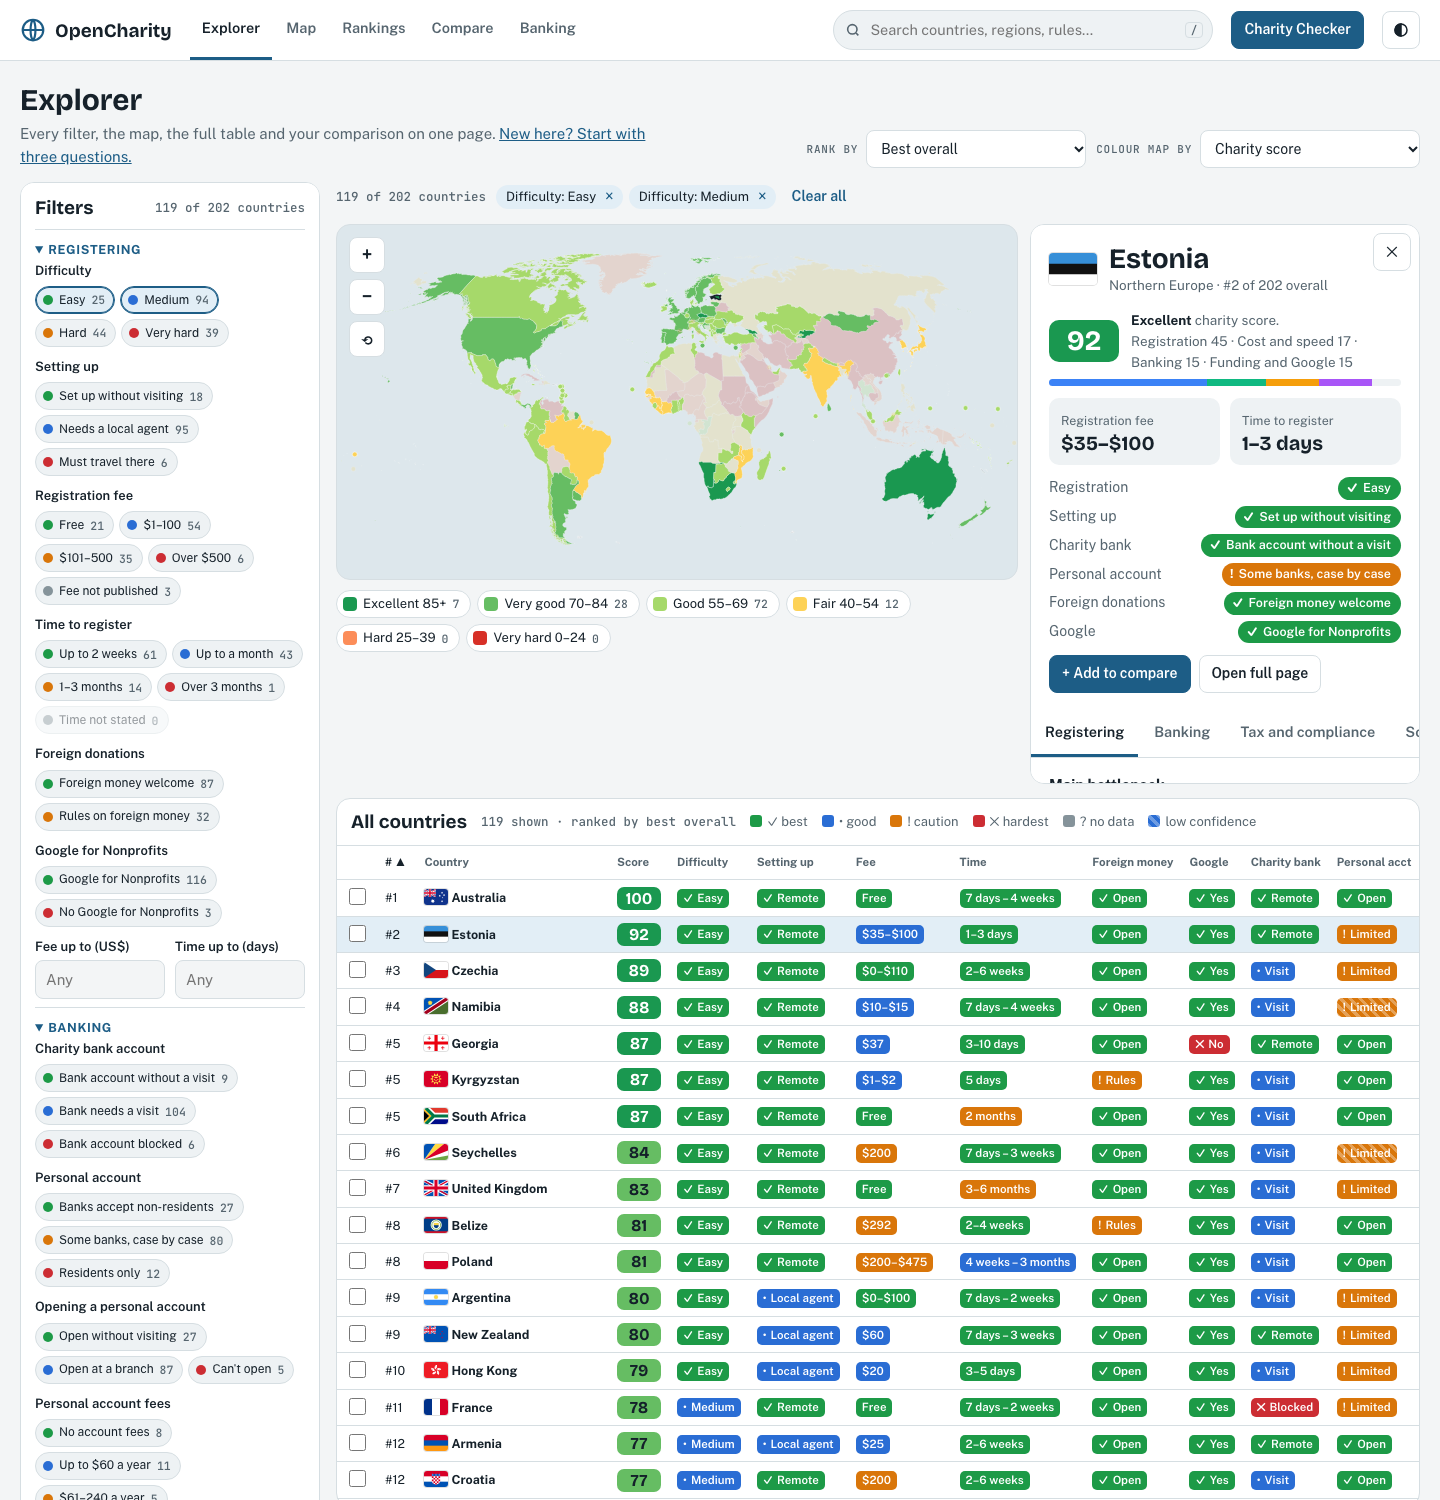
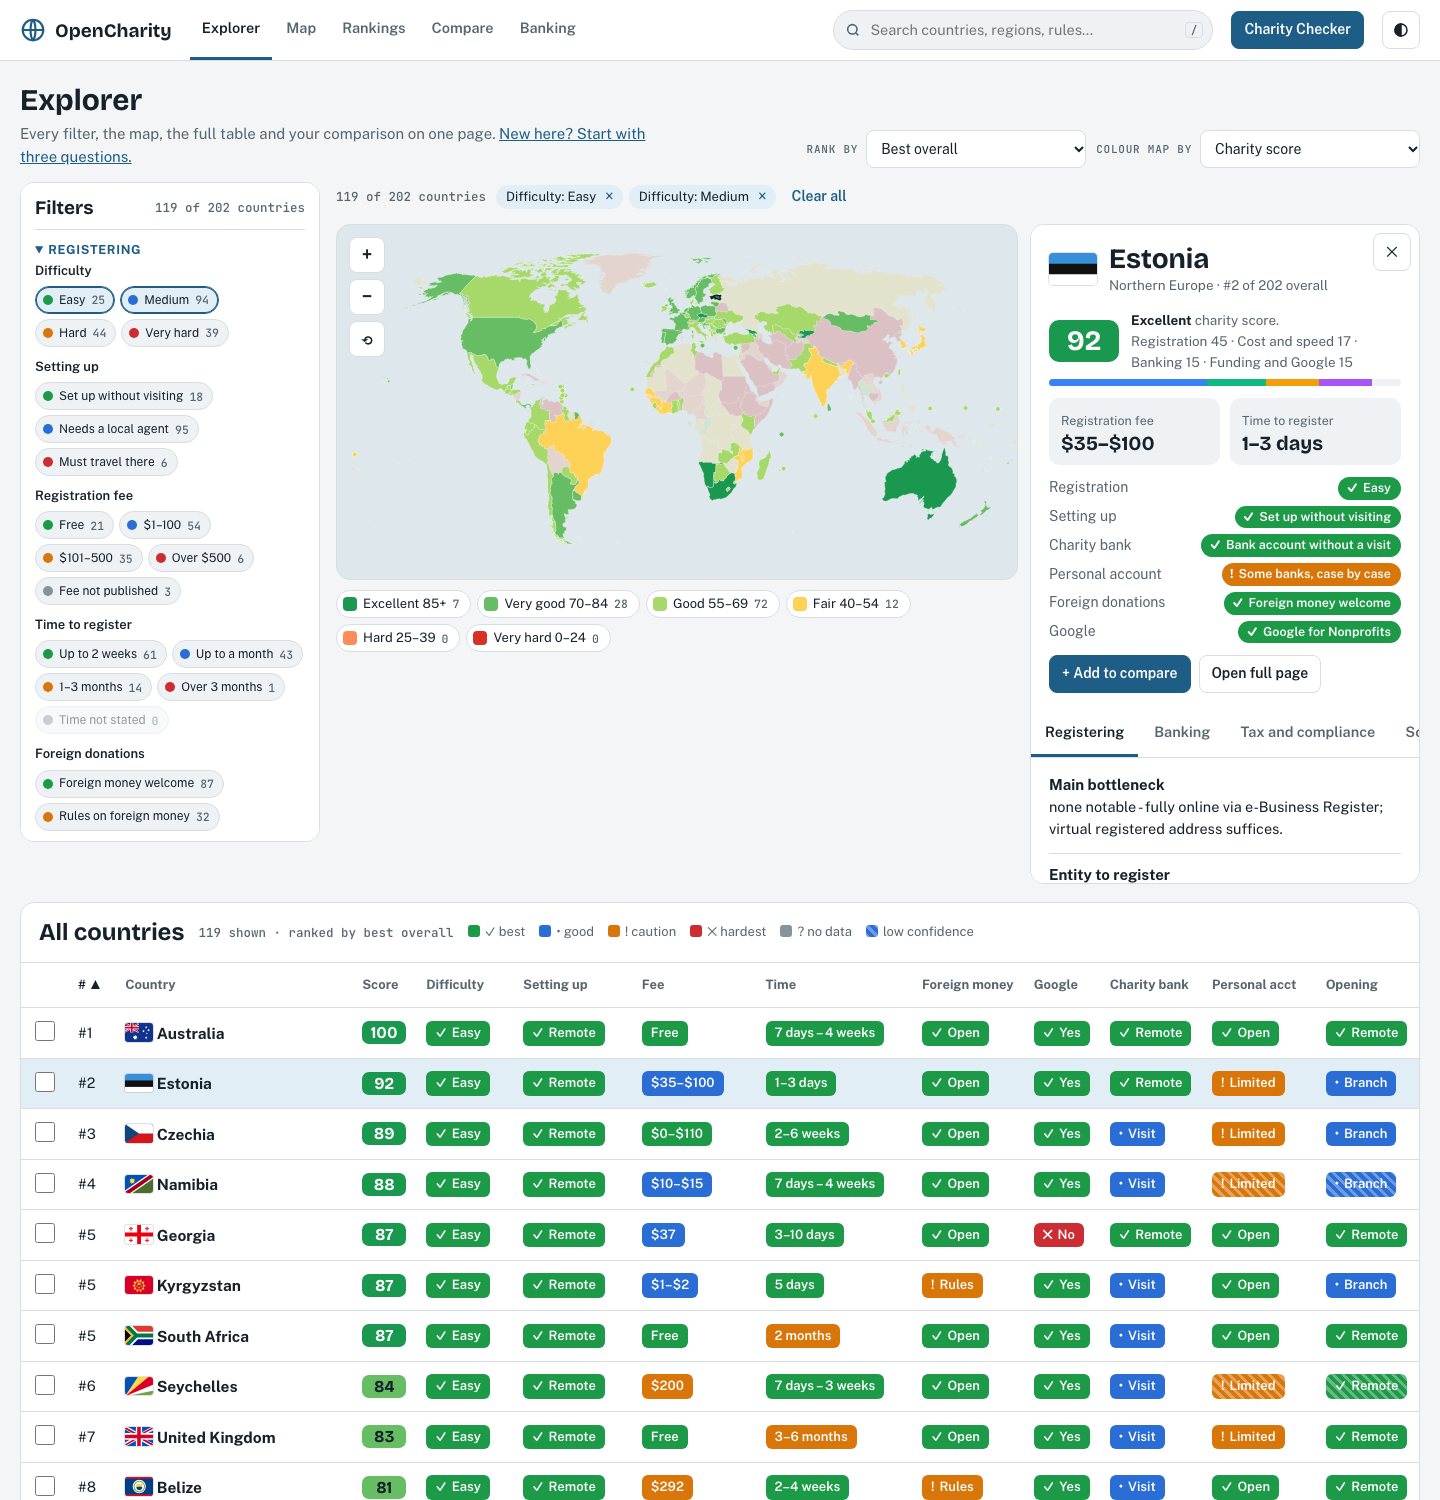
Explorer: full-width, larger country table right after the map
The table and compare grid now span the whole page width under the
map, with bigger text, chips and rows, and fill the screen height
with a sticky header. The filters column scrolls on its own at the
map's height so the table starts straight after the map.

diff --git a/docs/index.html b/docs/index.html
@@ -340,7 +340,7 @@ footer.site p { margin: 0; max-width: 80ch; }
 }
 /* ---------- explorer (everything on one page) ---------- */
 .xgrid { display: grid; grid-template-columns: 300px minmax(0, 1fr); gap: 16px; align-items: start; }
-.xside { position: sticky; top: 72px; max-height: calc(100vh - 88px); overflow-y: auto; padding: 4px 14px 14px; }
+.xside { max-height: min(calc(100vh - 88px), 660px); overflow-y: auto; padding: 4px 14px 14px; }
 .xside > summary { list-style: none; cursor: pointer; display: flex; align-items: center; gap: 8px; padding: 10px 0; position: sticky; top: 0; background: var(--surface); z-index: 2; border-bottom: 1px solid var(--line); }
 .xside > summary::-webkit-details-marker { display: none; }
 .xside > summary h2 { font-size: 19px; }
@@ -350,7 +350,7 @@ footer.site p { margin: 0; max-width: 80ch; }
 .xside .fgroup { padding: 8px 0; }
 .xmain { min-width: 0; }
 .xtop { display: grid; grid-template-columns: minmax(0, 1fr) 390px; gap: 12px; align-items: start; }
-.xdet { max-height: 560px; overflow-y: auto; position: relative; }
+.xdet { max-height: 660px; overflow-y: auto; position: relative; }
 .xdet .close { position: sticky; top: 8px; float: right; margin: 8px 8px 0 0; z-index: 2; }
 .xhint { padding: 16px 18px; }
 .xhint h2 { font-size: 18px; margin-bottom: 6px; }
@@ -361,20 +361,25 @@ footer.site p { margin: 0; max-width: 80ch; }
 .xblock { margin-top: 14px; }
 .xblock > .xbh { display: flex; flex-wrap: wrap; align-items: center; gap: 8px 14px; padding: 12px 14px; border-bottom: 1px solid var(--line); }
 .xblock > .xbh h2 { font-size: 19px; }
-.xscroll { overflow: auto; max-height: 660px; }
-table.xt { border-collapse: separate; border-spacing: 0; font-size: 12.5px; min-width: 100%; }
+.xwide { margin-top: 18px; }
+.xwide > .xbh { padding: 16px 18px; }
+.xwide > .xbh h2 { font-size: 24px; }
+.xscroll { overflow: auto; max-height: calc(100vh - 80px); min-height: 480px; }
+table.xt { border-collapse: separate; border-spacing: 0; font-size: 14.5px; min-width: 100%; }
 table.xt th { position: sticky; top: 0; background: var(--surface); z-index: 2; border-bottom: 1px solid var(--line); text-align: left; padding: 0; white-space: nowrap; vertical-align: bottom; }
-table.xt th button { background: none; border: 0; padding: 8px; font-weight: 700; font-size: 11.5px; cursor: pointer; color: var(--muted); text-align: left; }
+table.xt th button { background: none; border: 0; padding: 12px 10px; font-weight: 700; font-size: 13px; cursor: pointer; color: var(--muted); text-align: left; }
 table.xt th[aria-sort="ascending"] button, table.xt th[aria-sort="descending"] button { color: var(--ink); }
 table.xt th[aria-sort="ascending"] button::after { content: " ▲"; } table.xt th[aria-sort="descending"] button::after { content: " ▼"; }
-table.xt td { padding: 5px 8px; border-bottom: 1px solid var(--line); white-space: nowrap; }
+table.xt td { padding: 10px 10px; border-bottom: 1px solid var(--line); white-space: nowrap; }
+table.xt td.stk b { font-size: 15.5px; }
+table.xt .flag { width: 28px; }
 table.xt .stk { position: sticky; left: 0; background: var(--surface); z-index: 1; }
 table.xt th.stk { z-index: 3; }
 table.xt tr[data-x] { cursor: pointer; }
 table.xt tr[data-x]:hover td, table.xt tr[data-x]:focus-visible td { background: var(--surface-2); }
 table.xt tr.on td { background: var(--accent-soft); }
-table.xt input[type="checkbox"] { width: 17px; height: 17px; accent-color: var(--accent); cursor: pointer; }
-.mc { display: inline-flex; align-items: center; gap: 4px; border-radius: 5px; padding: 0 6px; color: #fff; font-weight: 600; font-size: 11.5px; line-height: 1.65; }
+table.xt input[type="checkbox"] { width: 20px; height: 20px; accent-color: var(--accent); cursor: pointer; }
+.mc { display: inline-flex; align-items: center; gap: 5px; border-radius: 6px; padding: 2px 9px; color: #fff; font-weight: 600; font-size: 13px; line-height: 1.6; }
 .c-b5 { background: var(--b5); } .c-b4 { background: var(--b4); color: #14202a; } .c-b3 { background: var(--b3); color: #14202a; } .c-b2 { background: var(--b2); color: #14202a; } .c-b1 { background: var(--b1); color: #14202a; } .c-b0 { background: var(--b0); }
 td.cell.med { background: var(--surface-2); color: var(--ink); font-weight: 500; }
 th.medh { background: var(--surface-2); }
@@ -996,10 +1001,10 @@ function renderExplore() {
         <div class="xmain">
           <div id="xTags"></div>
           <div class="xtop"><div><div class="mapcard" id="xMap"></div><div id="xLegend"></div></div><aside class="card xdet" id="xDet" tabindex="-1" aria-label="Country details"></aside></div>
-          <div class="card xblock" id="xTableBox"></div>
-          <div class="card xblock" id="xCmp"></div>
         </div>
-      </div>`;
+      </div>
+      <div class="card xblock xwide" id="xTableBox"></div>
+      <div class="card xblock xwide" id="xCmp"></div>`;
     if (narrow()) $("xSide").open = false;
     xMap = makeMap($("xMap"), c => { S.xsel = c; renderExplore(); if (matchMedia("(max-width: 1250px)").matches) $("xDet").scrollIntoView({ behavior: "smooth", block: "start" }); });
   }
@@ -1042,7 +1047,7 @@ function renderExplore() {
   const { html: tbl, shown } = cmpTable(cs, pool, true);
   $("xCmp").innerHTML = `<div class="xbh"><h2>Compare</h2><span class="count">${cs.length} of 5 picked · tick countries in the table</span>
       ${cs.length ? `<label class="switch"><input type="checkbox" id="diffOnly"${S.diff ? " checked" : ""}> Differences only</label><button type="button" class="btn link" id="cmpClear">Clear</button>` : ""}</div>
-    ${cs.length ? `<div class="cmpwrap" style="padding:10px">${tbl}</div>${S.diff && cs.length > 1 && !shown ? `<p class="empty">These countries match on every rated row.</p>` : ""}`
+    ${cs.length ? `<div class="cmpwrap" style="padding:14px">${tbl}</div>${S.diff && cs.length > 1 && !shown ? `<p class="empty">These countries match on every rated row.</p>` : ""}`
       : `<p class="empty">Tick up to 5 countries in the table (or press <b>c</b> on a focused row) to compare them here, beside the median of everything your filters match.</p>`}
     <datalist id="allC">${DATA.filter(d => !S.cmp.includes(d.country)).sort((a, b) => a.country.localeCompare(b.country)).map(d => `<option value="${esc(d.country)}">`).join("")}</datalist>`;
   announce(`${pool.length} countries match`);

diff --git a/webapp/atlas.html b/webapp/atlas.html
@@ -329,7 +329,7 @@ footer.site p { margin: 0; max-width: 80ch; }
 }
 /* ---------- explorer (everything on one page) ---------- */
 .xgrid { display: grid; grid-template-columns: 300px minmax(0, 1fr); gap: 16px; align-items: start; }
-.xside { position: sticky; top: 72px; max-height: calc(100vh - 88px); overflow-y: auto; padding: 4px 14px 14px; }
+.xside { max-height: min(calc(100vh - 88px), 660px); overflow-y: auto; padding: 4px 14px 14px; }
 .xside > summary { list-style: none; cursor: pointer; display: flex; align-items: center; gap: 8px; padding: 10px 0; position: sticky; top: 0; background: var(--surface); z-index: 2; border-bottom: 1px solid var(--line); }
 .xside > summary::-webkit-details-marker { display: none; }
 .xside > summary h2 { font-size: 19px; }
@@ -339,7 +339,7 @@ footer.site p { margin: 0; max-width: 80ch; }
 .xside .fgroup { padding: 8px 0; }
 .xmain { min-width: 0; }
 .xtop { display: grid; grid-template-columns: minmax(0, 1fr) 390px; gap: 12px; align-items: start; }
-.xdet { max-height: 560px; overflow-y: auto; position: relative; }
+.xdet { max-height: 660px; overflow-y: auto; position: relative; }
 .xdet .close { position: sticky; top: 8px; float: right; margin: 8px 8px 0 0; z-index: 2; }
 .xhint { padding: 16px 18px; }
 .xhint h2 { font-size: 18px; margin-bottom: 6px; }
@@ -350,20 +350,25 @@ footer.site p { margin: 0; max-width: 80ch; }
 .xblock { margin-top: 14px; }
 .xblock > .xbh { display: flex; flex-wrap: wrap; align-items: center; gap: 8px 14px; padding: 12px 14px; border-bottom: 1px solid var(--line); }
 .xblock > .xbh h2 { font-size: 19px; }
-.xscroll { overflow: auto; max-height: 660px; }
-table.xt { border-collapse: separate; border-spacing: 0; font-size: 12.5px; min-width: 100%; }
+.xwide { margin-top: 18px; }
+.xwide > .xbh { padding: 16px 18px; }
+.xwide > .xbh h2 { font-size: 24px; }
+.xscroll { overflow: auto; max-height: calc(100vh - 80px); min-height: 480px; }
+table.xt { border-collapse: separate; border-spacing: 0; font-size: 14.5px; min-width: 100%; }
 table.xt th { position: sticky; top: 0; background: var(--surface); z-index: 2; border-bottom: 1px solid var(--line); text-align: left; padding: 0; white-space: nowrap; vertical-align: bottom; }
-table.xt th button { background: none; border: 0; padding: 8px; font-weight: 700; font-size: 11.5px; cursor: pointer; color: var(--muted); text-align: left; }
+table.xt th button { background: none; border: 0; padding: 12px 10px; font-weight: 700; font-size: 13px; cursor: pointer; color: var(--muted); text-align: left; }
 table.xt th[aria-sort="ascending"] button, table.xt th[aria-sort="descending"] button { color: var(--ink); }
 table.xt th[aria-sort="ascending"] button::after { content: " ▲"; } table.xt th[aria-sort="descending"] button::after { content: " ▼"; }
-table.xt td { padding: 5px 8px; border-bottom: 1px solid var(--line); white-space: nowrap; }
+table.xt td { padding: 10px 10px; border-bottom: 1px solid var(--line); white-space: nowrap; }
+table.xt td.stk b { font-size: 15.5px; }
+table.xt .flag { width: 28px; }
 table.xt .stk { position: sticky; left: 0; background: var(--surface); z-index: 1; }
 table.xt th.stk { z-index: 3; }
 table.xt tr[data-x] { cursor: pointer; }
 table.xt tr[data-x]:hover td, table.xt tr[data-x]:focus-visible td { background: var(--surface-2); }
 table.xt tr.on td { background: var(--accent-soft); }
-table.xt input[type="checkbox"] { width: 17px; height: 17px; accent-color: var(--accent); cursor: pointer; }
-.mc { display: inline-flex; align-items: center; gap: 4px; border-radius: 5px; padding: 0 6px; color: #fff; font-weight: 600; font-size: 11.5px; line-height: 1.65; }
+table.xt input[type="checkbox"] { width: 20px; height: 20px; accent-color: var(--accent); cursor: pointer; }
+.mc { display: inline-flex; align-items: center; gap: 5px; border-radius: 6px; padding: 2px 9px; color: #fff; font-weight: 600; font-size: 13px; line-height: 1.6; }
 .c-b5 { background: var(--b5); } .c-b4 { background: var(--b4); color: #14202a; } .c-b3 { background: var(--b3); color: #14202a; } .c-b2 { background: var(--b2); color: #14202a; } .c-b1 { background: var(--b1); color: #14202a; } .c-b0 { background: var(--b0); }
 td.cell.med { background: var(--surface-2); color: var(--ink); font-weight: 500; }
 th.medh { background: var(--surface-2); }
@@ -983,10 +988,10 @@ function renderExplore() {
         <div class="xmain">
           <div id="xTags"></div>
           <div class="xtop"><div><div class="mapcard" id="xMap"></div><div id="xLegend"></div></div><aside class="card xdet" id="xDet" tabindex="-1" aria-label="Country details"></aside></div>
-          <div class="card xblock" id="xTableBox"></div>
-          <div class="card xblock" id="xCmp"></div>
         </div>
-      </div>`;
+      </div>
+      <div class="card xblock xwide" id="xTableBox"></div>
+      <div class="card xblock xwide" id="xCmp"></div>`;
     if (narrow()) $("xSide").open = false;
     xMap = makeMap($("xMap"), c => { S.xsel = c; renderExplore(); if (matchMedia("(max-width: 1250px)").matches) $("xDet").scrollIntoView({ behavior: "smooth", block: "start" }); });
   }
@@ -1029,7 +1034,7 @@ function renderExplore() {
   const { html: tbl, shown } = cmpTable(cs, pool, true);
   $("xCmp").innerHTML = `<div class="xbh"><h2>Compare</h2><span class="count">${cs.length} of 5 picked · tick countries in the table</span>
       ${cs.length ? `<label class="switch"><input type="checkbox" id="diffOnly"${S.diff ? " checked" : ""}> Differences only</label><button type="button" class="btn link" id="cmpClear">Clear</button>` : ""}</div>
-    ${cs.length ? `<div class="cmpwrap" style="padding:10px">${tbl}</div>${S.diff && cs.length > 1 && !shown ? `<p class="empty">These countries match on every rated row.</p>` : ""}`
+    ${cs.length ? `<div class="cmpwrap" style="padding:14px">${tbl}</div>${S.diff && cs.length > 1 && !shown ? `<p class="empty">These countries match on every rated row.</p>` : ""}`
       : `<p class="empty">Tick up to 5 countries in the table (or press <b>c</b> on a focused row) to compare them here, beside the median of everything your filters match.</p>`}
     <datalist id="allC">${DATA.filter(d => !S.cmp.includes(d.country)).sort((a, b) => a.country.localeCompare(b.country)).map(d => `<option value="${esc(d.country)}">`).join("")}</datalist>`;
   announce(`${pool.length} countries match`);

diff --git a/build_site.py b/build_site.py
@@ -408,7 +408,7 @@ footer.site p { margin: 0; max-width: 80ch; }
 }
 /* ---------- explorer (everything on one page) ---------- */
 .xgrid { display: grid; grid-template-columns: 300px minmax(0, 1fr); gap: 16px; align-items: start; }
-.xside { position: sticky; top: 72px; max-height: calc(100vh - 88px); overflow-y: auto; padding: 4px 14px 14px; }
+.xside { max-height: min(calc(100vh - 88px), 660px); overflow-y: auto; padding: 4px 14px 14px; }
 .xside > summary { list-style: none; cursor: pointer; display: flex; align-items: center; gap: 8px; padding: 10px 0; position: sticky; top: 0; background: var(--surface); z-index: 2; border-bottom: 1px solid var(--line); }
 .xside > summary::-webkit-details-marker { display: none; }
 .xside > summary h2 { font-size: 19px; }
@@ -418,7 +418,7 @@ footer.site p { margin: 0; max-width: 80ch; }
 .xside .fgroup { padding: 8px 0; }
 .xmain { min-width: 0; }
 .xtop { display: grid; grid-template-columns: minmax(0, 1fr) 390px; gap: 12px; align-items: start; }
-.xdet { max-height: 560px; overflow-y: auto; position: relative; }
+.xdet { max-height: 660px; overflow-y: auto; position: relative; }
 .xdet .close { position: sticky; top: 8px; float: right; margin: 8px 8px 0 0; z-index: 2; }
 .xhint { padding: 16px 18px; }
 .xhint h2 { font-size: 18px; margin-bottom: 6px; }
@@ -429,20 +429,25 @@ footer.site p { margin: 0; max-width: 80ch; }
 .xblock { margin-top: 14px; }
 .xblock > .xbh { display: flex; flex-wrap: wrap; align-items: center; gap: 8px 14px; padding: 12px 14px; border-bottom: 1px solid var(--line); }
 .xblock > .xbh h2 { font-size: 19px; }
-.xscroll { overflow: auto; max-height: 660px; }
-table.xt { border-collapse: separate; border-spacing: 0; font-size: 12.5px; min-width: 100%; }
+.xwide { margin-top: 18px; }
+.xwide > .xbh { padding: 16px 18px; }
+.xwide > .xbh h2 { font-size: 24px; }
+.xscroll { overflow: auto; max-height: calc(100vh - 80px); min-height: 480px; }
+table.xt { border-collapse: separate; border-spacing: 0; font-size: 14.5px; min-width: 100%; }
 table.xt th { position: sticky; top: 0; background: var(--surface); z-index: 2; border-bottom: 1px solid var(--line); text-align: left; padding: 0; white-space: nowrap; vertical-align: bottom; }
-table.xt th button { background: none; border: 0; padding: 8px; font-weight: 700; font-size: 11.5px; cursor: pointer; color: var(--muted); text-align: left; }
+table.xt th button { background: none; border: 0; padding: 12px 10px; font-weight: 700; font-size: 13px; cursor: pointer; color: var(--muted); text-align: left; }
 table.xt th[aria-sort="ascending"] button, table.xt th[aria-sort="descending"] button { color: var(--ink); }
 table.xt th[aria-sort="ascending"] button::after { content: " ▲"; } table.xt th[aria-sort="descending"] button::after { content: " ▼"; }
-table.xt td { padding: 5px 8px; border-bottom: 1px solid var(--line); white-space: nowrap; }
+table.xt td { padding: 10px 10px; border-bottom: 1px solid var(--line); white-space: nowrap; }
+table.xt td.stk b { font-size: 15.5px; }
+table.xt .flag { width: 28px; }
 table.xt .stk { position: sticky; left: 0; background: var(--surface); z-index: 1; }
 table.xt th.stk { z-index: 3; }
 table.xt tr[data-x] { cursor: pointer; }
 table.xt tr[data-x]:hover td, table.xt tr[data-x]:focus-visible td { background: var(--surface-2); }
 table.xt tr.on td { background: var(--accent-soft); }
-table.xt input[type="checkbox"] { width: 17px; height: 17px; accent-color: var(--accent); cursor: pointer; }
-.mc { display: inline-flex; align-items: center; gap: 4px; border-radius: 5px; padding: 0 6px; color: #fff; font-weight: 600; font-size: 11.5px; line-height: 1.65; }
+table.xt input[type="checkbox"] { width: 20px; height: 20px; accent-color: var(--accent); cursor: pointer; }
+.mc { display: inline-flex; align-items: center; gap: 5px; border-radius: 6px; padding: 2px 9px; color: #fff; font-weight: 600; font-size: 13px; line-height: 1.6; }
 .c-b5 { background: var(--b5); } .c-b4 { background: var(--b4); color: #14202a; } .c-b3 { background: var(--b3); color: #14202a; } .c-b2 { background: var(--b2); color: #14202a; } .c-b1 { background: var(--b1); color: #14202a; } .c-b0 { background: var(--b0); }
 td.cell.med { background: var(--surface-2); color: var(--ink); font-weight: 500; }
 th.medh { background: var(--surface-2); }
@@ -1062,10 +1067,10 @@ function renderExplore() {
         <div class="xmain">
           <div id="xTags"></div>
           <div class="xtop"><div><div class="mapcard" id="xMap"></div><div id="xLegend"></div></div><aside class="card xdet" id="xDet" tabindex="-1" aria-label="Country details"></aside></div>
-          <div class="card xblock" id="xTableBox"></div>
-          <div class="card xblock" id="xCmp"></div>
         </div>
-      </div>`;
+      </div>
+      <div class="card xblock xwide" id="xTableBox"></div>
+      <div class="card xblock xwide" id="xCmp"></div>`;
     if (narrow()) $("xSide").open = false;
     xMap = makeMap($("xMap"), c => { S.xsel = c; renderExplore(); if (matchMedia("(max-width: 1250px)").matches) $("xDet").scrollIntoView({ behavior: "smooth", block: "start" }); });
   }
@@ -1108,7 +1113,7 @@ function renderExplore() {
   const { html: tbl, shown } = cmpTable(cs, pool, true);
   $("xCmp").innerHTML = `<div class="xbh"><h2>Compare</h2><span class="count">${cs.length} of 5 picked · tick countries in the table</span>
       ${cs.length ? `<label class="switch"><input type="checkbox" id="diffOnly"${S.diff ? " checked" : ""}> Differences only</label><button type="button" class="btn link" id="cmpClear">Clear</button>` : ""}</div>
-    ${cs.length ? `<div class="cmpwrap" style="padding:10px">${tbl}</div>${S.diff && cs.length > 1 && !shown ? `<p class="empty">These countries match on every rated row.</p>` : ""}`
+    ${cs.length ? `<div class="cmpwrap" style="padding:14px">${tbl}</div>${S.diff && cs.length > 1 && !shown ? `<p class="empty">These countries match on every rated row.</p>` : ""}`
       : `<p class="empty">Tick up to 5 countries in the table (or press <b>c</b> on a focused row) to compare them here, beside the median of everything your filters match.</p>`}
     <datalist id="allC">${DATA.filter(d => !S.cmp.includes(d.country)).sort((a, b) => a.country.localeCompare(b.country)).map(d => `<option value="${esc(d.country)}">`).join("")}</datalist>`;
   announce(`${pool.length} countries match`);
